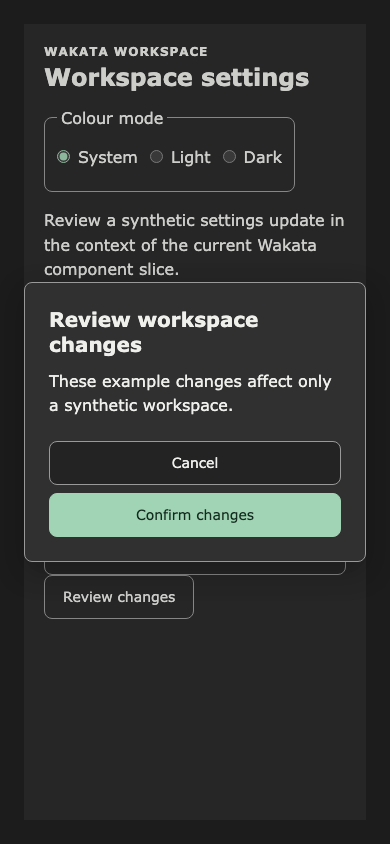
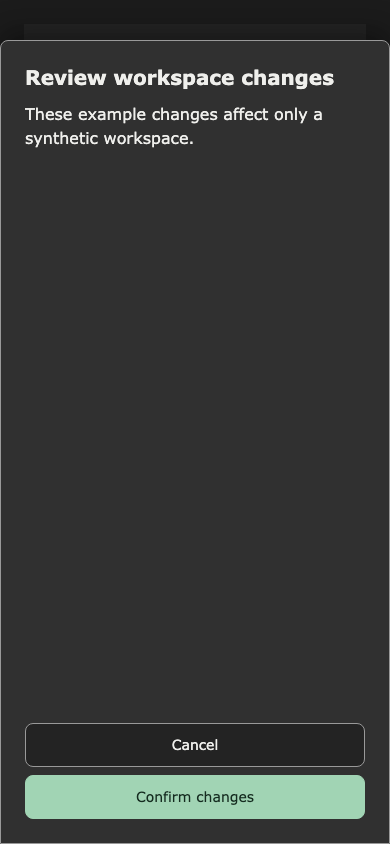
Add mobile Dialog sheet and visible long Storybook story

diff --git a/packages/ds/test/dialog-actions.browser.test.ts b/packages/ds/test/dialog-actions.browser.test.ts
@@ -47,6 +47,11 @@ const create = async (mode = 'light') => {
 const scrollLocked = () => document.body.classList.contains('overlays-scroll-lock');
 const nativeClick = (el: HTMLElement) =>
   el.dispatchEvent(new MouseEvent('click', { bubbles: true, composed: true }));
+const openSettled = async (dialog: HTMLElement & { open(): Promise<void> }): Promise<void> => {
+  await dialog.open();
+  const content = dialog.querySelector<HTMLElement>('[slot="content"]');
+  if (content) await Promise.all(content.getAnimations().map((animation) => animation.finished));
+};
 
 afterEach(async () => {
   await page.viewport(414, 896);
@@ -60,7 +65,7 @@ test.each(['disabled', 'loading'] as const)(
     confirm.addEventListener('click', () => (activations += 1));
     confirm[state] = true;
     await confirm.updateComplete;
-    await dialog.open();
+    await openSettled(dialog);
     nativeClick(confirm);
     confirm.click();
     // Real pointer click on the visible Confirm; must not throw and must not activate.
@@ -96,7 +101,7 @@ test('repeated action and close clicks run each effect once and release focus an
     if (!(e as CustomEvent<{ opened: boolean }>).detail.opened) closedEvents += 1;
   });
   invoker.focus();
-  await dialog.open();
+  await openSettled(dialog);
   for (let i = 0; i < 4; i += 1) nativeClick(confirm);
   await settle(dialog);
   expect(confirmed).toBe(1);
@@ -106,7 +111,7 @@ test('repeated action and close clicks run each effect once and release focus an
   expect(document.activeElement).toBe(invoker);
 
   confirm.loading = false;
-  await dialog.open();
+  await openSettled(dialog);
   expect(scrollLocked()).toBe(true);
   await Promise.all([dialog.close(), dialog.close()]);
   await cancel.updateComplete;
@@ -118,7 +123,7 @@ test('repeated action and close clicks run each effect once and release focus an
 test('content replacement and a removed invoker do not strand focus or scroll lock', async () => {
   const { dialog, parent, invoker, content } = await create();
   parent.tabIndex = 0;
-  await dialog.open();
+  await openSettled(dialog);
   const replacement = content.cloneNode(true) as HTMLElement;
   content.replaceWith(replacement);
   await new Promise<void>((resolve) => setTimeout(resolve, 50));
@@ -143,7 +148,7 @@ test('current application focus survives an action-driven close', async () => {
   const { dialog, parent, confirm, invoker } = await create();
   const outside = document.createElement('button');
   document.body.append(outside);
-  await dialog.open();
+  await openSettled(dialog);
   // The app moves focus as the dialog starts closing; Dialog must not steal it back.
   dialog.addEventListener('opened-changed', (e) => {
     if (!(e as CustomEvent<{ opened: boolean }>).detail.opened) outside.focus();
@@ -181,7 +186,7 @@ test.each([
   async (mode, w, h) => {
     await page.viewport(w, h);
     const { dialog, parent, content } = await create(mode);
-    await dialog.open();
+    await openSettled(dialog);
     const style = getComputedStyle(content);
     expect(style.backgroundColor).not.toMatch(/rgba\(.*,\s*0\)$|^transparent$/);
     expect(contrast(style.color, style.backgroundColor)).toBeGreaterThanOrEqual(4.5);
@@ -189,6 +194,54 @@ test.each([
     expect(rect.left).toBeGreaterThanOrEqual(0);
     expect(rect.right).toBeLessThanOrEqual(window.innerWidth);
     expect(rect.bottom).toBeLessThanOrEqual(window.innerHeight);
+    if (w <= 600) {
+      expect(rect.top).toBeCloseTo(40, 0);
+      expect(rect.bottom).toBeCloseTo(window.innerHeight, 0);
+    }
+    await dialog.close();
+    parent.remove();
+  },
+);
+
+test.each([
+  [320, 568],
+  [390, 844],
+])(
+  'mobile sheet at %ix%i keeps its title and actions fixed while the body scrolls',
+  async (w, h) => {
+    await page.viewport(w, h);
+    await import('@wakata/ds/dialog/define');
+    const parent = document.createElement('div');
+    parent.dataset.wkTheme = 'fieldwork';
+    parent.innerHTML = `
+    <wk-dialog>
+      <wk-button slot="invoker">Open</wk-button>
+      <section slot="content" aria-labelledby="sheet-title" aria-describedby="sheet-body">
+        <h2 id="sheet-title">Review extended request</h2>
+        <div id="sheet-body">${'<p>Synthetic review note with long content.</p>'.repeat(20)}</div>
+        <div><wk-button>Cancel</wk-button><wk-button variant="primary">Confirm</wk-button></div>
+      </section>
+    </wk-dialog>`;
+    document.body.append(parent);
+    const dialog = parent.querySelector('wk-dialog')!;
+    const content = parent.querySelector<HTMLElement>('[slot="content"]')!;
+    const body = parent.querySelector<HTMLElement>('#sheet-body')!;
+    await settle(dialog);
+    await openSettled(dialog);
+    const panel = content.getBoundingClientRect();
+    const title = content.children.item(0)!;
+    const actions = content.children.item(2)!;
+    const titleTop = title.getBoundingClientRect().top;
+    const actionsBottom = actions.getBoundingClientRect().bottom;
+    expect(panel.top).toBeCloseTo(40, 0);
+    expect(panel.bottom).toBeCloseTo(h, 0);
+    expect(panel.width).toBeCloseTo(w, 0);
+    expect(body.scrollHeight).toBeGreaterThan(body.clientHeight);
+    body.scrollTop = body.scrollHeight;
+    expect(title.getBoundingClientRect().top).toBeCloseTo(titleTop, 0);
+    expect(actions.getBoundingClientRect().bottom).toBeCloseTo(actionsBottom, 0);
+    expect(document.documentElement.scrollWidth).toBeLessThanOrEqual(w);
+    expect(scrollLocked()).toBe(true);
     await dialog.close();
     parent.remove();
   },

diff --git a/packages/ds/src/components/dialog/dialog.stories.ts b/packages/ds/src/components/dialog/dialog.stories.ts
@@ -47,6 +47,11 @@ const reviewStyles = `
   }
 `;
 
+const sheetContextStyles = `
+  .sheet-context { margin:0 0 24px; padding:8px 12px; color:var(--wk-text); background:var(--wk-surface); font-size:12px; font-weight:700; letter-spacing:.08em; }
+  @media(max-width:600px) { .sheet-context { position:fixed; inset:0 0 auto; z-index:1; height:40px; box-sizing:border-box; margin:0; } }
+`;
+
 const waitForClosedContent = async (dialog: HTMLElement, content: HTMLElement): Promise<void> => {
   const deadline = Date.now() + 1500;
   while (dialog.hasAttribute('opened') || content.hasAttribute('data-wk-dialog-content')) {
@@ -151,20 +156,77 @@ export const ReviewDialog: Story = {
   },
 };
 
-export const LongContentAndNarrowReflow: Story = {
+export const MobileSheetShort: Story = {
+  name: 'Mobile Sheet / Short Content',
+  parameters: {
+    // Lion's native outer <dialog role="none"> triggers axe while open; #14 tracks manual AT review.
+    a11y: { test: 'todo' },
+  },
   render: () => html`
-    <main style="width:min(100%, 960px);margin-inline:auto">
+    <style>
+      ${reviewStyles}
+      ${sheetContextStyles}
+    </style>
+    <main class="review-page" data-wk-theme="fieldwork" @click=${closeReview}>
+      <header class="sheet-context">WAKATA WORKSPACE</header>
+      <h1>Workspace request</h1>
+      <p>A synthetic request is ready to review.</p>
       <wk-dialog>
-        <button slot="invoker">Open long review</button>
-        <section slot="content" aria-labelledby="long-title">
-          <h2 id="long-title">
-            Review for the cross-regional planning group and its extended collaboration schedule
-          </h2>
-          <p>
-            This synthetic, intentionally long review description verifies viewport-constrained
-            scrolling without page overflow or changes to the modal geometry.
-          </p>
-          <wk-button slot="actions" variant="primary">Confirm extended review</wk-button>
+        <wk-button slot="invoker">Open short review</wk-button>
+        <section
+          slot="content"
+          aria-labelledby="sheet-short-title"
+          aria-describedby="sheet-short-body"
+        >
+          <h2 id="sheet-short-title">Review request</h2>
+          <p id="sheet-short-body">Confirm this synthetic workspace change. Nothing is sent.</p>
+          <div class="review-actions">
+            <wk-button data-review-close>Cancel</wk-button>
+            <wk-button variant="primary" data-review-close>Confirm</wk-button>
+          </div>
+        </section>
+      </wk-dialog>
+    </main>
+  `,
+  play: async ({ canvasElement }) => {
+    const dialog = canvasElement.querySelector('wk-dialog')!;
+    await dialog.open();
+    await expect(dialog.opened).toBe(true);
+    dialog.dataset.sheetPlayComplete = 'true';
+  },
+};
+
+export const LongContentAndNarrowReflow: Story = {
+  name: 'Mobile Sheet / Long Content',
+  parameters: {
+    // Keep the sheet open for visual review; the upstream outer-dialog role remains an AT gate item.
+    a11y: { test: 'todo' },
+  },
+  render: () => html`
+    <style>
+      ${reviewStyles}
+      ${sheetContextStyles}
+    </style>
+    <main class="review-page" data-wk-theme="fieldwork" @click=${closeReview}>
+      <header class="sheet-context">WAKATA WORKSPACE</header>
+      <h1>Workspace request</h1>
+      <p>A synthetic request with a longer review is ready.</p>
+      <wk-dialog>
+        <wk-button slot="invoker">Open long review</wk-button>
+        <section slot="content" aria-labelledby="long-title" aria-describedby="long-body">
+          <h2 id="long-title">Review extended request</h2>
+          <div id="long-body">
+            <p>This synthetic request has several review notes. Nothing is sent.</p>
+            ${Array.from(
+              { length: 12 },
+              (_, index) =>
+                html`<p>Review note ${index + 1}: check the proposed workspace details.</p>`,
+            )}
+          </div>
+          <div class="review-actions">
+            <wk-button data-review-close>Cancel</wk-button>
+            <wk-button variant="primary" data-review-close>Confirm</wk-button>
+          </div>
         </section>
       </wk-dialog>
     </main>
@@ -178,7 +240,6 @@ export const LongContentAndNarrowReflow: Story = {
       document.documentElement.clientWidth,
     );
     await expect(getComputedStyle(content).padding).toBe('24px');
-    await dialog.close();
     dialog.dataset.longPlayComplete = 'true';
   },
 };

diff --git a/packages/ds/src/themes/dialog.css b/packages/ds/src/themes/dialog.css
@@ -30,3 +30,49 @@
 [data-wk-dialog-content] > p {
   margin-block: 0;
 }
+
+@media (max-width: 600px) {
+  [data-wk-dialog-content] {
+    width: 100vw;
+    height: calc(100vh - 40px);
+    height: calc(100dvh - 40px);
+    max-height: none;
+    overflow: auto;
+    padding-bottom: max(24px, env(safe-area-inset-bottom));
+    border-radius: var(--wk-radius, 0px) var(--wk-radius, 0px) 0 0;
+    box-shadow: 0 -10px 28px rgb(0 0 0 / 22%);
+    animation: wk-dialog-sheet-in 220ms ease-out;
+  }
+
+  [data-wk-dialog-content][data-wk-mode='dark'] {
+    box-shadow: 0 -10px 28px rgb(0 0 0 / 38%);
+  }
+
+  [data-wk-dialog-content]:has(> :nth-child(3):last-child) {
+    display: grid;
+    grid-template-rows: auto minmax(0, 1fr) auto;
+    overflow: hidden;
+  }
+
+  [data-wk-dialog-content]:has(> :nth-child(3):last-child) > :nth-child(2) {
+    min-height: 0;
+    overflow: auto;
+    overscroll-behavior: contain;
+    -webkit-overflow-scrolling: touch;
+  }
+
+  @keyframes wk-dialog-sheet-in {
+    from {
+      transform: translateY(100%);
+    }
+    to {
+      transform: translateY(0);
+    }
+  }
+
+  @media (prefers-reduced-motion: reduce) {
+    [data-wk-dialog-content] {
+      animation-duration: 1ms;
+    }
+  }
+}

diff --git a/packages/ds/src/components/dialog/wk-dialog.ts b/packages/ds/src/components/dialog/wk-dialog.ts
@@ -48,6 +48,11 @@ export class WkDialog extends LionDialog {
         animation-duration: 1ms;
       }
     }
+    @media (max-width: 600px) {
+      dialog[data-overlay-outer-wrapper] > .overlays__overlay-container--center {
+        align-items: flex-end;
+      }
+    }
   `;
 
   #contentRoot?: HTMLElement;

diff --git a/packages/ds/README.md b/packages/ds/README.md
@@ -152,7 +152,12 @@ wireframe attributes plus computed supported `--wk-*` tokens, including
 typography and consumer overrides. These refresh while open when an origin
 ancestor's relevant attributes change or when the System color preference
 changes. The content root uses 24px padding, a 28rem maximum width, 24px
-viewport gutters and viewport-constrained scrolling. It follows the theme
+viewport gutters and viewport-constrained scrolling on desktop. At viewport
+widths of 600px or less, it becomes a near-full-height bottom sheet with a
+40px top reveal, a top-edge shadow and a stable height independent of content
+length. With a title, one body element and an action container as its three
+direct children, only the middle body scrolls; the title and actions stay in
+place. Other content structures remain scrollable as a whole. It follows the theme
 surface/border/radius with a restrained modal shadow; dark mode lifts the
 panel surface slightly. Wireframe changes the theme radius without changing
 geometry. The backdrop uses a lighter dim than Lion's default. No arbitrary
@@ -173,7 +178,13 @@ untested), no real-device, React or Angular coverage; this is not gate completio
 with a named/described review modal in the Fieldwork theme. Chromium browser tests
 verify that Cancel and Confirm changes only close this synthetic example;
 neither performs a business action. Review screenshots use Fieldwork typography,
-while the story separately checks a live typography override.
+while the story separately checks a live typography override. The visible
+Storybook entries `Mobile Sheet / Short Content` and `Mobile Sheet / Long
+Content` open their Dialogs for phone-width review. The long story keeps its
+title and action footer fixed while its body scrolls. Its open-state automated
+Storybook accessibility check is marked `todo`: Lion's outer native
+`<dialog role="none">` triggers an axe role violation. This known upstream
+markup issue and manual VoiceOver behavior remain #14 gate items, not passes.
 Chromium browser tests
 cover repeated lifecycle, keyboard containment, Escape/backdrop behavior,
 focus return and fallback, removed content/invokers, theme nesting/live
